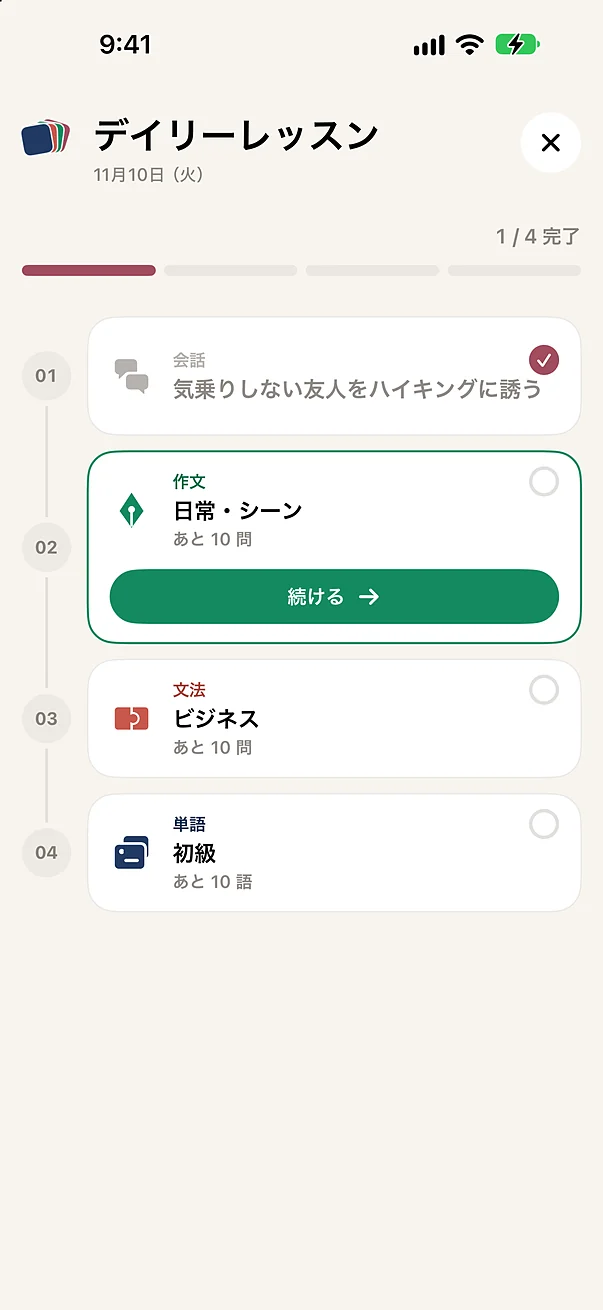
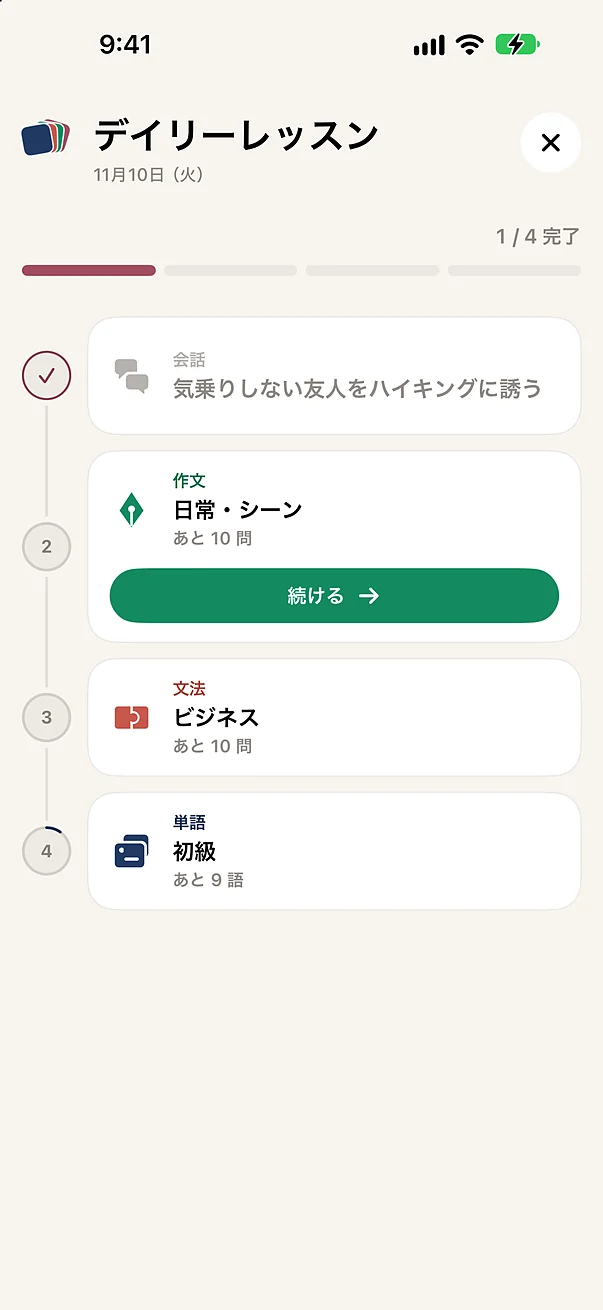
fix(web): デイリーレッスンの写真を、新しい見た目に差し替える（本人「HPはこれで更新」）
終わった印を左の番号へ移し、番号の輪で今日の進み具合を出す形（iOS 22b21b46 / Android 23140f79）で
撮り直した。日英の alt も新しい画面に合わせ、写真のクエリを ?v=20261110b にして
古い写真が残らないようにした。アプリ側は 1.6.2 以降に入る（サイトは先行して出す・本人判断）。
Codex レビュー指摘（英文の言い回し）対応・他の指摘なし。

diff --git a/index.html b/index.html
@@ -2577,7 +2577,7 @@ html:not(.js) .pp-dots{ display:none !important; }
         <p class="pp-sub">今日の学習をタスク化。</p>
         <p>レッスンを、上から順に進められます。今日のタスクを一覧で確認。終了したら印が付きます。表示するカテゴリーも、各モードの出題数も、設定で変えられます。</p>
       </div>
-      <figure><img src="demo/daily-2026-11.webp?v=20261110" alt="デイリーレッスンの画面。11月10日の1/4完了のバーの下に、01 会話・02 作文・03 文法・04 単語が番号つきで縦に並び、終えた会話には印が付き、次の作文のカードが開いて「続ける」ボタンが出ている" width="603" height="1310" loading="lazy" decoding="async"></figure>
+      <figure><img src="demo/daily-2026-11.webp?v=20261110b" alt="デイリーレッスンの画面。11月10日の1/4完了のバーの下に、会話・作文・文法・単語が番号つきで縦に並び、終えた会話は番号がチェックに変わり、次の作文のカードが開いて「続ける」ボタンが出ている" width="603" height="1310" loading="lazy" decoding="async"></figure>
     </div>
   </div></div>
 </section>

diff --git a/en/index.html b/en/index.html
@@ -2604,7 +2604,7 @@ html[lang="en"] .pp-stat b small{ font-size:12px; }
         <p class="pp-sub">Today&#39;s study, laid out as tasks.</p>
         <p>Work through the lessons from the top. See today&#39;s tasks at a glance, and finished ones are marked. Settings let you change which categories appear, and how many questions each mode gives you.</p>
       </div>
-      <figure><img src="/demo/daily-2026-11.webp?v=20261110" alt="The daily lesson screen: a 1 of 4 progress bar for 10 November, and below it conversation, composition, grammar and vocabulary numbered 01 to 04, with the finished conversation marked and the next card, composition, opened and showing its continue button" width="603" height="1310" loading="lazy" decoding="async"></figure>
+      <figure><img src="/demo/daily-2026-11.webp?v=20261110b" alt="The daily lesson screen: a 1 of 4 progress bar for 10 November, and below it conversation, composition, grammar and vocabulary numbered 1 to 4, where the finished conversation shows a check mark in place of its number and the next card, composition, is open and shows its continue button" width="603" height="1310" loading="lazy" decoding="async"></figure>
     </div>
   </div></div>
 </section>
